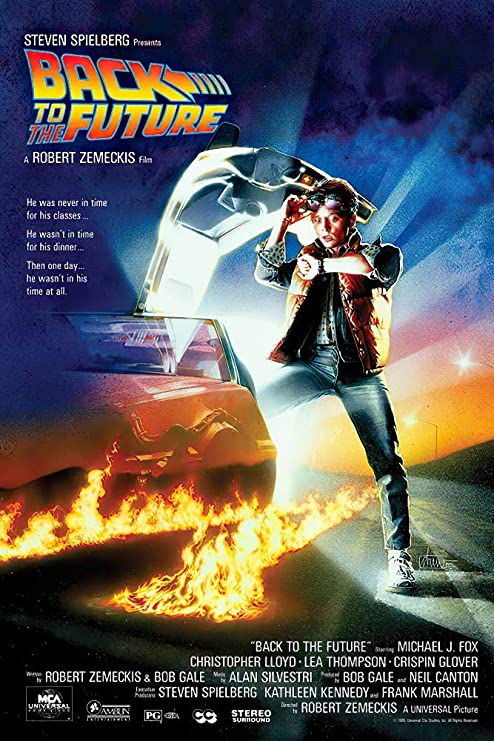
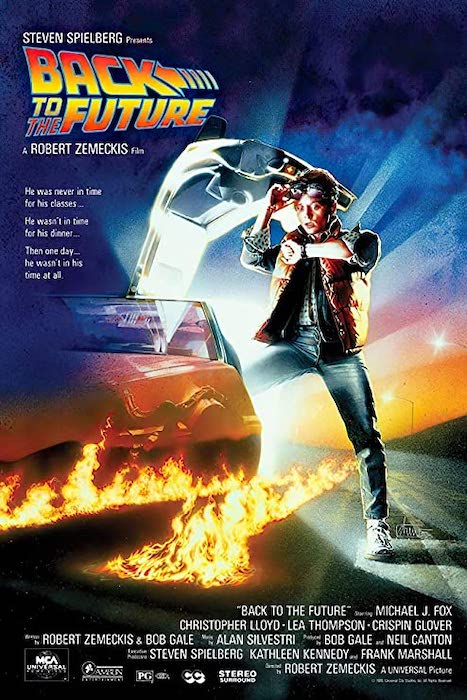
update styling for carousel

diff --git a/client/src/pages/Home.js b/client/src/pages/Home.js
@@ -7,51 +7,27 @@ import Carousel3 from '../assets/marleyandme.jpg';
 const Home = () => {
   return (
     <div>
-      <h1>Welcome to talkie-box.</h1>
-      <section>
-        <h2>What are you watching?</h2>
-        <p>Share which movies have caught your attention. Let your friends know whether those films are HOT or NOT.</p>
-      </section>
-      <section>
-        <h2>What are your friends watching?</h2>
-        <p>Chances are others are interested in the same movies as you. Find out what they are labeling as HOT or NOT.</p>
-      </section>
       <Carousel class="carousel">
-        <Carousel.Item>
+        <Carousel.Item class="carousel-item">
           <img
-            className="d-block w-100"
+            className="d-block"
             src={Carousel1}
-            alt="First slide"
-            style={{ height: 800 }}
+            alt="Alien Movie Poster"
           />
-          <Carousel.Caption>
-            <h3>First slide label</h3>
-            <p>Nulla vitae elit libero, a pharetra augue mollis interdum.</p>
-          </Carousel.Caption>
         </Carousel.Item>
         <Carousel.Item>
           <img
-            className="d-block w-100"
+            className="d-block justify-content-center align-items-center"
             src={Carousel2}
-            alt="Second slide"
+            alt="Back to the Future Movie Poster"
           />
-
-          <Carousel.Caption>
-            <h3>Second slide label</h3>
-            <p>Lorem ipsum dolor sit amet, consectetur adipiscing elit.</p>
-          </Carousel.Caption>
         </Carousel.Item>
         <Carousel.Item>
           <img
-            className="d-block w-100"
+            className="d-block"
             src={Carousel3}
-            alt="Gone With the Wind Movie Poster"
+            alt="Marley and Me Movie Poster"
           />
-
-          <Carousel.Caption>
-            <h3>Third slide label</h3>
-            <p>Praesent commodo cursus magna, vel scelerisque nisl consectetur.</p>
-          </Carousel.Caption>
         </Carousel.Item>
       </Carousel>
     </div>

diff --git a/client/src/index.css b/client/src/index.css
@@ -22,17 +22,30 @@ body {
     font-style: italic;
   }
 
+  .welcome{
+    justify-content: center;
+    color: white;
+    display: flex;
+  }
+
+  .welcome2 {
+    justify-content: center;
+    color: white;
+    display: flex;
+  }
+
 /* STYLING FOR SEARCH BAR */
   .search{
-    height: 200px;
+    height: 275px;
     width: auto;
     background-color: #DB504D;
   }
   
   .search div {
     background-color: white;
-    width: 20vw;
+    width: 40vw;
     height: 20vh;
+    z-index: 4;
   }
 
   .search label {
@@ -45,6 +58,7 @@ body {
   .search > form {
     color: #191919;
     width: 40vw;
+    
   }
   
   .search > form > input {
@@ -53,17 +67,18 @@ body {
   }
   
   .suggestions{
-    width: 100%;
     display: flex;
     flex-direction: column;
     border: 1px solid #CFCFCD;
     border-top: 0px;
     padding-right: 5px;
     justify-items: center;
+    z-index: 1;
   }
   
   .suggestions div {
     width: 100%;
+    justify-content: center;
   }
 
   .suggestion{
@@ -85,6 +100,7 @@ body {
     width: 20vw;
     height: 20vh;
     border-radius: 3px;
+    z-index: 3;
   }
   
   .media-info p {
@@ -95,6 +111,17 @@ body {
   .media-title{
     font-weight:bold;
   }
+
+  .formlabel {
+    display: flex;
+    justify-content: center;
+  }
+
+  .forminput {
+    display: flex;
+    justify-content: center;
+  }
+
 /* STYLING FOR SEARCH BAR */
 
 /* STYLING FOR MODAL */
@@ -139,6 +166,23 @@ a {
 /* Carousel Styling */
 
 .carousel {
-  height: 60vh;
-  width: 100%;
+  background-color: lightgrey;
+}
+
+.carousel, .carousel-inner img{
+  justify-content: center;
+  align-items: center;
+  margin: auto;
+  z-index: -1;
+}
+
+.carouselh3 {
+  color: #DB504D;
+  background: transparent;
+}
+
+.viewsaved {
+  text-align: center;
+  justify-content: center;
+  display: flex;
 }

diff --git a/client/src/components/Search.js b/client/src/components/Search.js
@@ -47,7 +47,13 @@ function Search({currentMedia, setCurrentMedia, isModalOpen, setIsModalOpen}) {
   }
 
   return (
-    <div className="search" class="search d-flex justify-content-center pt-4">
+    <div className="search" class="search justify-content-center pt-4">
+      <section class="welcome">
+        <h1>Welcome to talkie-box.</h1>
+      </section>
+      <section class="welcome2">
+        <h2>What are you watching?</h2>
+      </section>
       <form>
         <label htmlFor="title">Title:</label>
         <input type="title" name="title" onChange={handleChange}></input>

diff --git a/client/src/pages/SavedMedias.js b/client/src/pages/SavedMedias.js
@@ -50,8 +50,10 @@ const SavedMedias = () => {
   return (
     <>
       <Jumbotron fluid className="text-light bg-dark">
-        <Container>
-          <h1>Viewing saved movies!</h1>
+        <Container class="viewsaved">
+          <div class="viewsaved">
+            <h1>Viewing saved movies!</h1>
+          </div>
         </Container>
       </Jumbotron>
       <Container>
